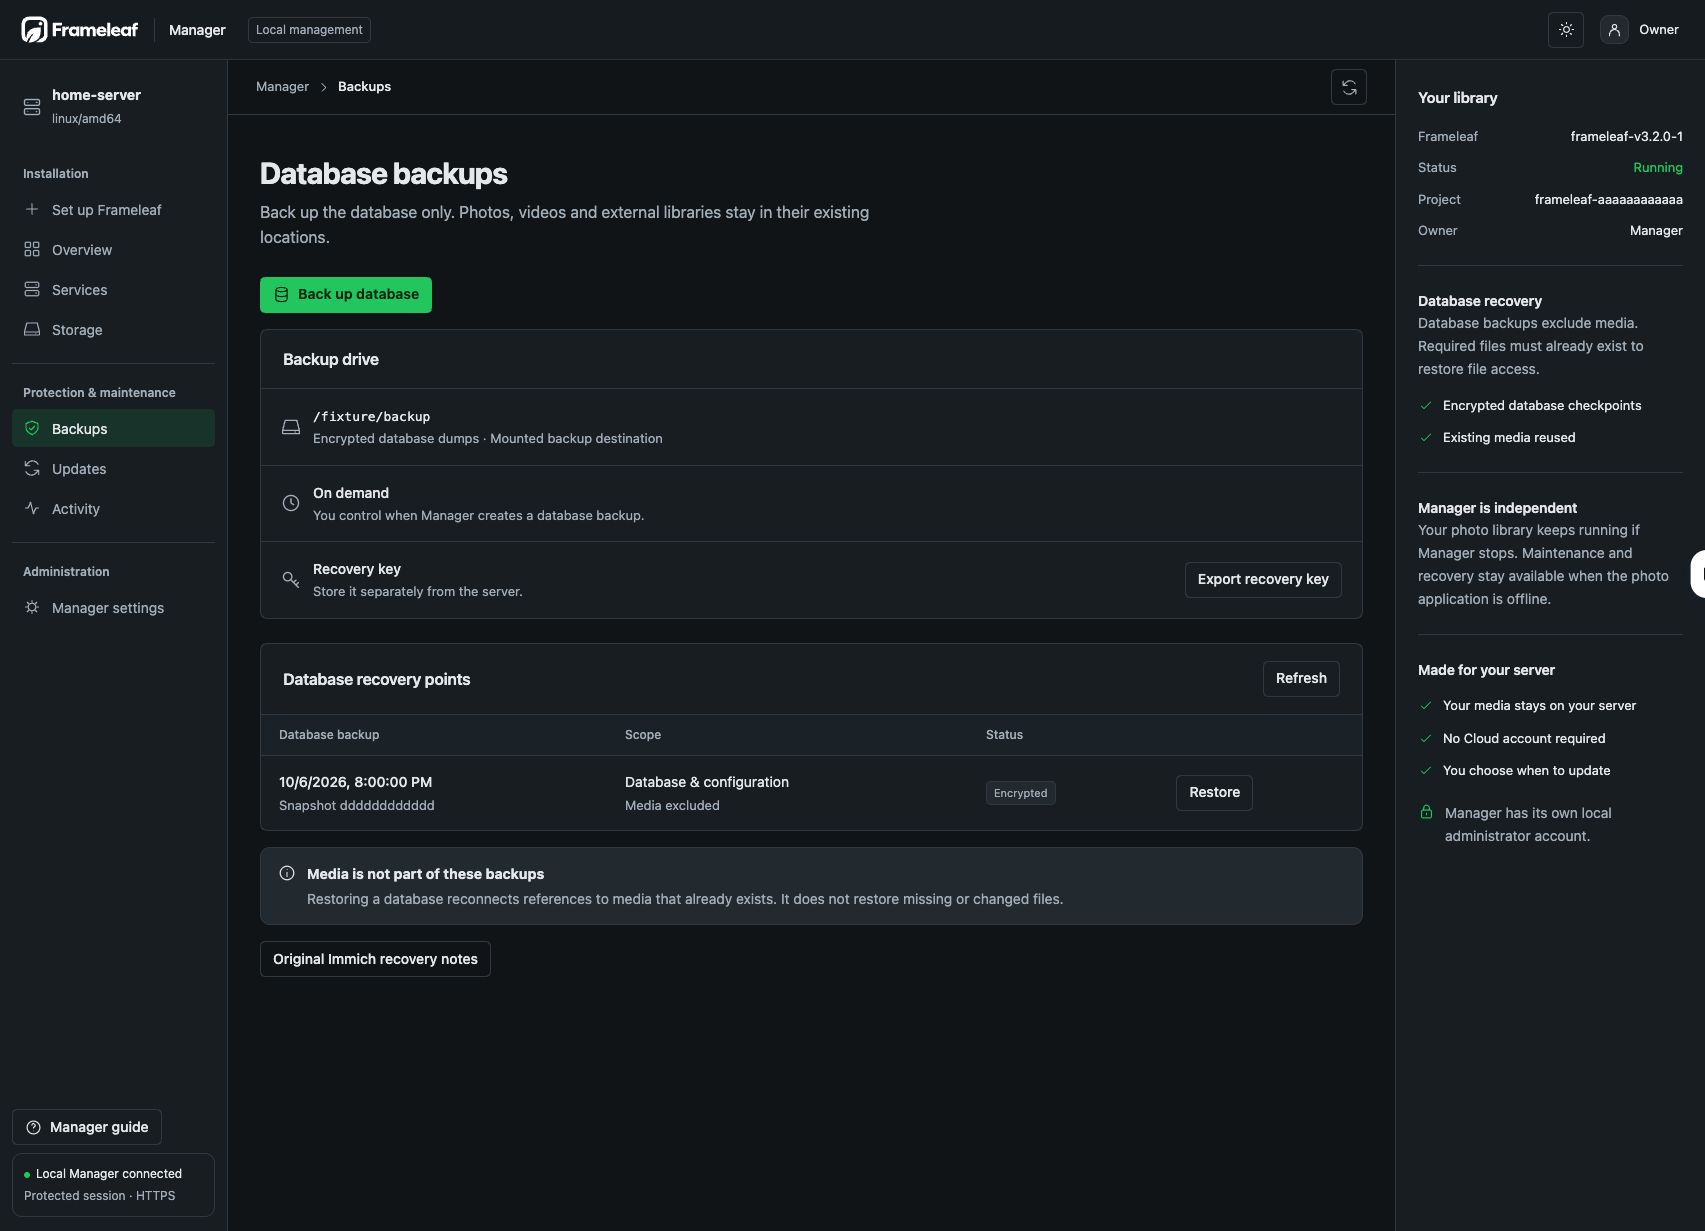
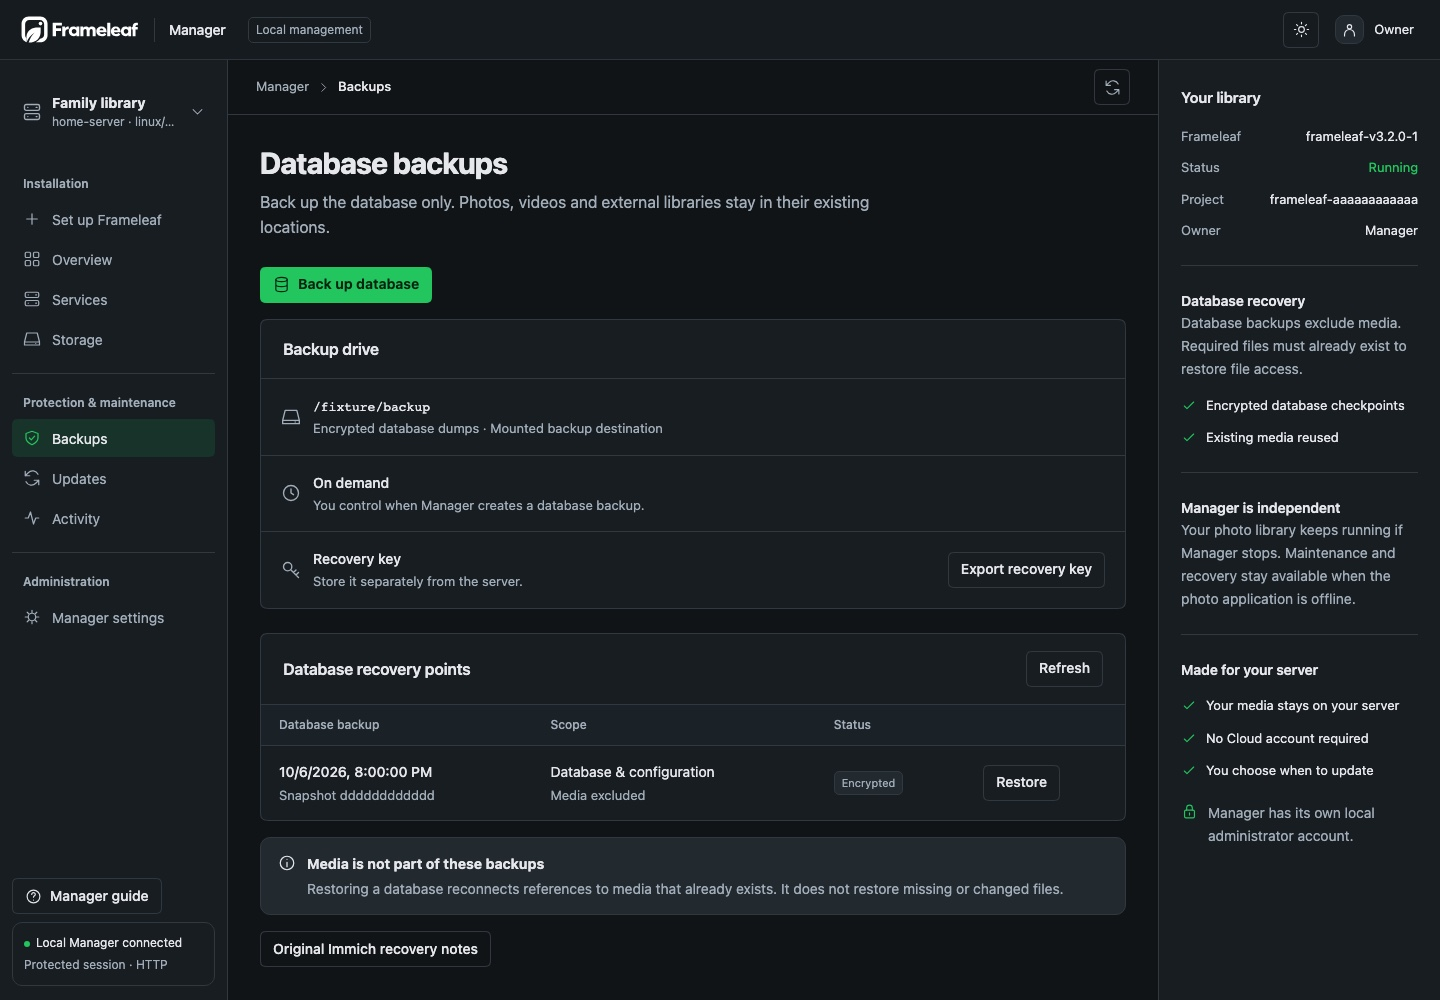
FL-1156 Publish Frameleaf Manager 1.2.3 catalog with current screenshots (#7)

diff --git a/README.md b/README.md
@@ -19,7 +19,7 @@ and updates still require the application's release-verification gates.
 
 ## Screenshots
 
-Manager 0.1.2 interface with demo data. Counts, service states, paths and releases
+Manager interface with demo data. Counts, service states, paths and releases
 shown are examples, not evidence of a qualified Unraid installation.
 
 ![Manager overview with demo data](https://raw.githubusercontent.com/Frameleaf/unraid-apps/main/images/manager-overview.jpg)
@@ -52,9 +52,9 @@ library from Manager to generate the service templates.
    storage **before** installing. Use Unraid's configured appdata share or your
    chosen pool; do not assume a pool named `cache`. Database storage must be on
    supported local disk storage outside Docker's data root and `docker.img`.
-2. Leave **Manager HTTPS origin** blank and open Manager from the WebUI link
+2. Leave **Manager origin** blank and open Manager from the WebUI link
    (`https://<NAS IP>:2282` or `https://tower.local:2282`). Only if you reach
-   Manager through a custom DNS name, set **Manager HTTPS origin** to that exact
+   Manager through a custom DNS name, set **Manager origin** to that exact
    address, for example `https://nas.example:2282`, and set **Advanced View →
    WebUI** to match; other hostnames are then refused with HTTP 403.
 3. Keep each storage mapping's **Host Path and Container Path identical**. When
@@ -87,13 +87,13 @@ Add each approved source media or database folder as an identical host/container
 mapping before import. Retain the original stopped source and its recovery point.
 Do not attach Frameleaf PostgreSQL to the source database's physical directory.
 
-For imports, use `docker info --format '{{.DockerRootDir}}'` to identify Docker's
-actual data root. Select its existing `unraid-autostart` file (usually
-`/var/lib/docker/unraid-autostart`) in **Unraid autostart file** and apply; Manager
-finds it automatically. Do not create a replacement or guess a pool path. Leave it
-blank for a fresh install. **Autostart controller path** stays blank.
-Manager needs this writable file to fence source autostart while preserving other
-entries. Follow the
+Manager configures Unraid autostart access automatically, using Docker's actual
+data root and the existing host list. Leave **Unraid autostart file** and
+**Autostart controller path** blank; existing manual mappings remain supported.
+An isolated helper uses the running Manager image and mounts that file,
+preserving other entries while preventing Immich from restarting at boot.
+If the host file is missing or inaccessible, Manager refuses the import. A fresh
+installation can proceed when Manager verifies that no list exists. Follow the
 [offline import guide](https://github.com/Frameleaf/frameleaf-app/blob/main/docs/docs/administration/import-immich.md).
 
 ## Updates and backups
@@ -147,3 +147,7 @@ passing package tests do not replace those platform checks.
 ### Mobile discovery
 
 Manager installations of releases that include `frameleaf-lan-discovery` publish a Bonjour announcement from a separate host-network companion. The Frameleaf server and database stay on their private Docker bridge. The companion follows the published web port and the server's LAN discovery setting; no host Avahi files or manual announcements are needed. A loopback-only installation is not advertised. Older server releases without the companion keep their existing deployment layout.
+
+For HTTP management, set **Manager origin** to the exact `http://` address and
+change the Advanced View WebUI to that same address. HTTP sends management
+traffic without encryption; use a trusted home network. An unset origin keeps HTTPS.

diff --git a/images/README.md b/images/README.md
@@ -1,12 +1,12 @@
 # Frameleaf Manager screenshots
 
-These product screenshots show the released Manager 0.1.2 interface, built from
-Frameleaf/frameleaf-app commit `947568067639827de73e2de7260103df697c7f51`.
-They were captured in a browser on 2026-10-18 using the explicit demo data from
-that release's `manager/test/ui-browser.mjs`. No production instance, customer
+These product screenshots show the Manager 1.2.3 interface, built from
+Frameleaf/frameleaf-app commit `ea95579f96aff8c85c832c305cb4716e910b2eaf`.
+They were captured in a browser on 2026-11-03 using the explicit demo data from
+that commit's `manager/test/ui-browser.mjs`. No production instance, customer
 media, credentials or private host configuration was used.
 
-- `manager-overview.jpg`: library overview and managed services.
+- `manager-overview.jpg`: library overview, metrics and managed services.
 - `manager-storage.jpg`: mounted media storage and access modes.
 - `manager-backups.jpg`: encrypted database recovery points and media exclusion.
 
